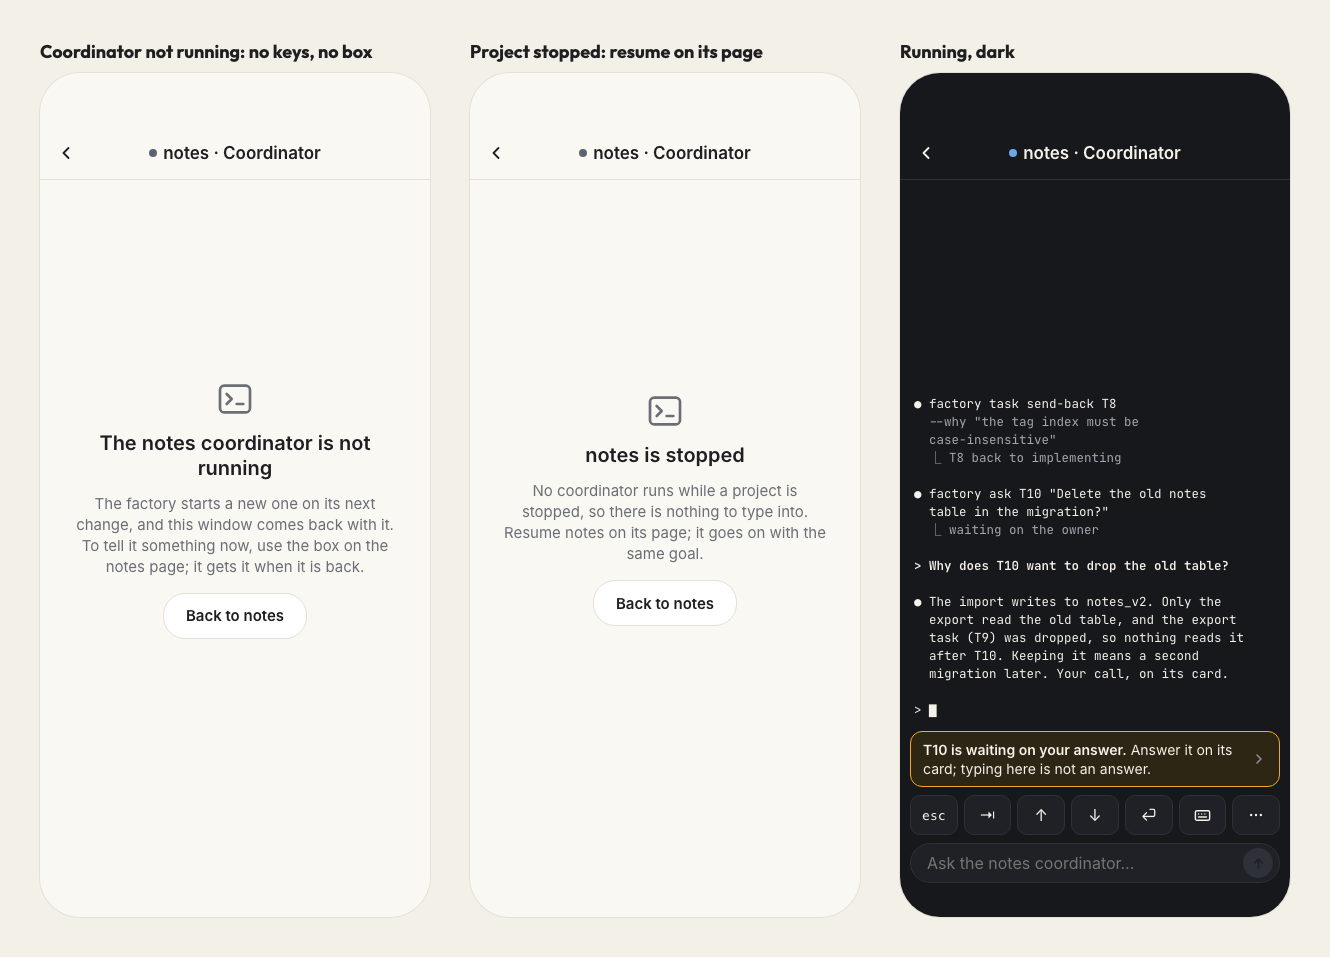
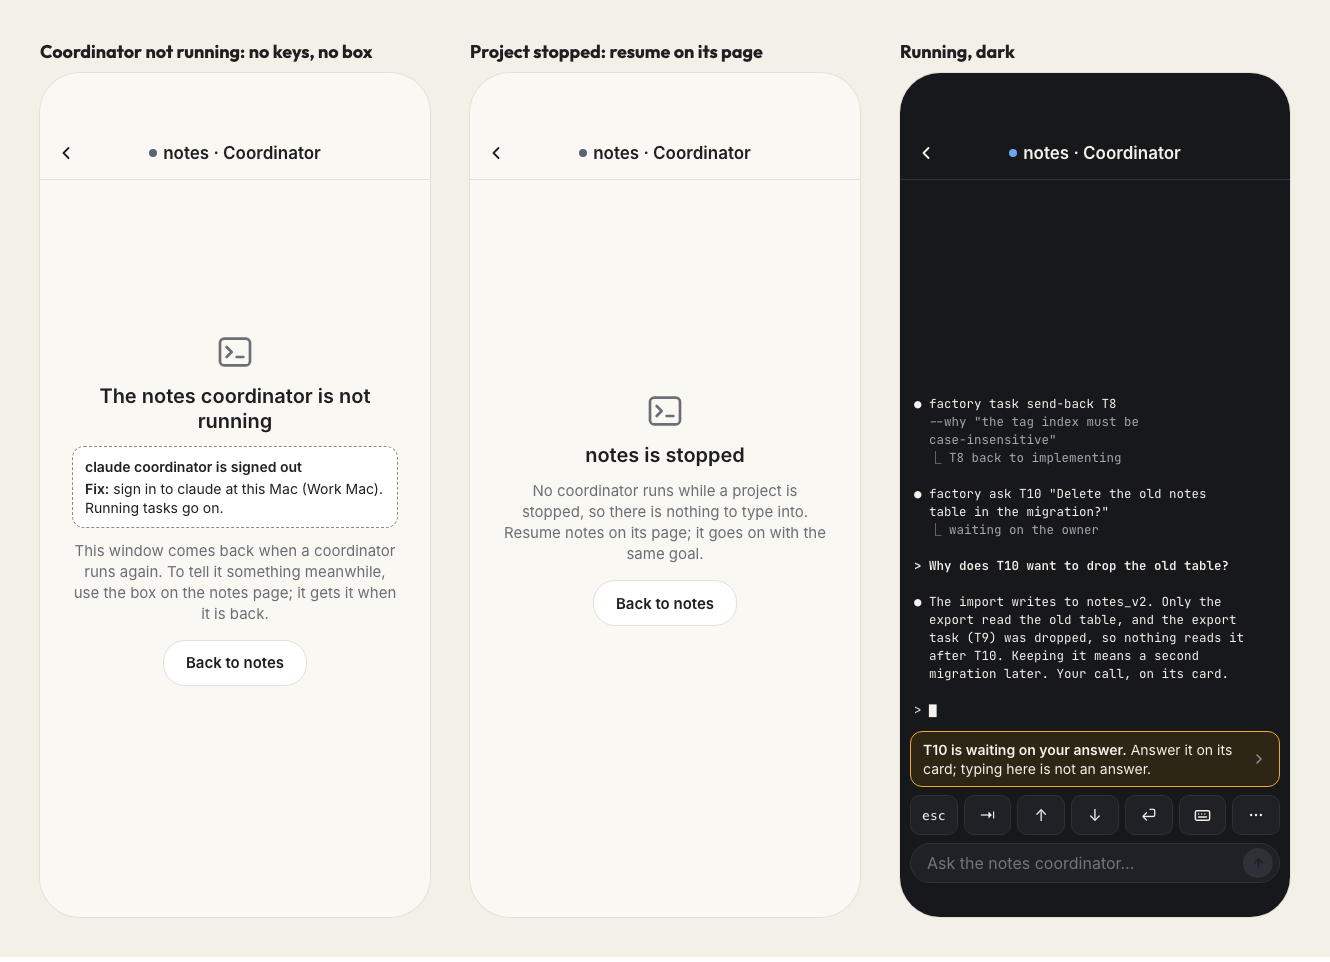
docs(design): the coordinator window's not-running state shows the alert and its fix, and its strings in the wording table

Changed region(s): [[0.0617, 0.343, 0.3083, 0.6549], [0.1233, 0.6861, 0.2158, 0.7173]]

diff --git a/docs/dev/design/canvas/FactoryWindow.dc.html b/docs/dev/design/canvas/FactoryWindow.dc.html
@@ -59,6 +59,12 @@ button{cursor:pointer}
     <main aria-label="{{ s.offTitle }}" style="flex-grow: 1; min-height: 0; display: flex; flex-direction: column; align-items: center; justify-content: center; gap: 12px; padding: 0 32px 80px; text-align: center">
       <svg width="40" height="40" viewBox="0 0 24 24" aria-hidden="true" fill="none" stroke="{{c.ink2}}" stroke-width="1.6" stroke-linecap="round" stroke-linejoin="round"><rect x="3" y="4" width="18" height="16" rx="2.5"></rect><path d="M7 9l3 3-3 3M13 15h4"></path></svg>
       <h2 style="margin: 0; font-size: 20px; line-height: 25px; font-weight: 600">{{ s.offTitle }}</h2>
+      <sc-if value="{{ s.alert }}" hint-placeholder-val="{{ true }}">
+        <div role="status" style="align-self: stretch; padding: 10px 12px; border-radius: 12px; background: {{c.surface}}; border: 1px dashed {{c.dash}}; display: flex; flex-direction: column; gap: 3px; text-align: left; font-size: 14px; line-height: 19px">
+          <span style="font-weight: 600">claude coordinator is signed out</span>
+          <span><span style="font-weight: 600">Fix:</span> sign in to claude at this Mac (Work Mac). Running tasks go on.</span>
+        </div>
+      </sc-if>
       <p style="margin: 0; font-size: 15px; line-height: 21px; color: {{c.ink2}}">{{ s.offBody }}</p>
       <a href="FactoryProject.dc.html" style="margin-top: 4px; min-height: 44px; padding: 0 22px; border-radius: 22px; border: 1px solid {{c.line}}; background: {{c.surface}}; color: {{c.ink}}; font-size: 15px; font-weight: 600; display: flex; align-items: center">Back to notes</a>
     </main>
@@ -68,8 +74,8 @@ button{cursor:pointer}
 <script type="text/x-dc" data-dc-script data-props='{"dark": {"editor": "boolean", "default": false}, "state": {"editor": "enum", "options": ["running", "coordoff", "stopped"], "default": "running"}, "$preview": {"width": 390, "height": 844}}'>
 class Component extends DCLogic {
   renderVals() {
-    const light = {"bg": "#FAF8F3", "surface": "#FFFFFF", "ink": "#1F1F22", "ink2": "#6B6E75", "line": "#E4E0D7", "blue": "#1F5F9E", "green": "#1D6B46", "idle": "#5C6370", "blocked": "#D99417", "askBg": "#FDF1DC", "chevron": "#8E929A"};
-    const dark = {"bg": "#16181C", "surface": "#1F2126", "ink": "#F5F2EA", "ink2": "#A3A7AF", "line": "#2E3138", "blue": "#6AA8EB", "green": "#5CC792", "idle": "#9AA1AD", "blocked": "#F0A92A", "askBg": "#2E2615", "chevron": "#8E929A"};
+    const light = {"bg": "#FAF8F3", "surface": "#FFFFFF", "ink": "#1F1F22", "ink2": "#6B6E75", "line": "#E4E0D7", "blue": "#1F5F9E", "green": "#1D6B46", "idle": "#5C6370", "blocked": "#D99417", "askBg": "#FDF1DC", "chevron": "#8E929A", "dash": "#8E8A80"};
+    const dark = {"bg": "#16181C", "surface": "#1F2126", "ink": "#F5F2EA", "ink2": "#A3A7AF", "line": "#2E3138", "blue": "#6AA8EB", "green": "#5CC792", "idle": "#9AA1AD", "blocked": "#F0A92A", "askBg": "#2E2615", "chevron": "#8E929A", "dash": "#6B707A"};
     const d = !!this.props.dark;
     const c = d ? dark : light;
     const st = this.props.state ?? 'running';
@@ -97,13 +103,13 @@ class Component extends DCLogic {
     const lines = raw.map((l) => ({ t: l[0] === "" ? " " : l[0], color: col[l[1]], weight: l[2] }));
     const off = st !== 'running';
     const s = {
-      live: !off, off,
+      live: !off, off, alert: st === 'coordoff',
       dot: off ? c.idle : c.blue,
       titleAria: off ? "notes coordinator, not running" : "notes coordinator, running",
       offTitle: st === 'stopped' ? "notes is stopped" : "The notes coordinator is not running",
       offBody: st === 'stopped'
         ? "No coordinator runs while a project is stopped, so there is nothing to type into. Resume notes on its page; it goes on with the same goal."
-        : "The factory starts a new one on its next change, and this window comes back with it. To tell it something now, use the box on the notes page; it gets it when it is back."
+        : "This window comes back when a coordinator runs again. To tell it something meanwhile, use the box on the notes page; it gets it when it is back."
     };
     return { c, s, lines };
   }

diff --git a/docs/dev/design/canvas/slice14-wording.md b/docs/dev/design/canvas/slice14-wording.md
@@ -298,7 +298,8 @@ strings; a test's expected string is the **Text** column
 
 Strings the iPhone and iPad app shows that `/factory` does not have. The
 boards are the Part 3 `Factory…` boards (`FactoryHead`, `FactoryProject`,
-`FactoryNewProject`, `FactoryModels`, `FactoryWindow`, `FactoryStates`).
+`FactoryNewProject`, `FactoryModels`, `FactoryWindow`, `FactoryWindowStates`,
+`FactoryStates`).
 Every other string on those boards is a string of the tables above. The app
 uses the web's words with the app's casing for screen titles and section
 labels ("Settings", "Tasks", "Asks for you"); state and stage words stay
@@ -324,11 +325,17 @@ lowercase.
 | `app.tell.gone` | status | This project is gone. | on Agents, after the project page closes (6.2) |
 | `app.pair.stop` | refusal | Not stopped: Work Mac no longer knows this phone. Pair this phone again in Settings ▸ Work Mac, then press Stop again. | a project action without a paired-device identity; the computer's own name |
 | `app.pair.say` | refusal | Not sent: Work Mac no longer knows this phone. Pair this phone again in Settings ▸ Work Mac, then send again. | the text box without a paired-device identity |
-| `app.coord.btn` | button | Coordinator | opens the read-only window; shown only while a coordinator runs |
+| `app.coord.btn` | button | Coordinator | opens the coordinator's live window (D10); shown only while a coordinator runs |
 | `app.coord.off` | heading | The coordinator is not running: claude coordinator is signed out | the alert's cause as the daemon writes it; without an alert the heading ends at "not running" and no fix follows |
 | `app.coord.fix` | sentence | Fix: sign in to claude at this Mac (Work Mac). Running tasks go on. | the alert's fix |
-| `app.win.note` | note | View only. To tell the coordinator something, use the box on the notes page. An ask is answered on its card. | the coordinator's window |
-| `app.win.updated` | status | Updated 2 s ago | the window's footer |
+| `app.win.title` | heading | notes · Coordinator | the coordinator's window header; no model or effort |
+| `app.win.ph` | placeholder | Ask the notes coordinator… | the window's prompt box; screen-reader label "Message to the notes coordinator" |
+| `app.win.ask` | link | T10 is waiting on your answer. Answer it on its card; typing here is not an answer. | above the key bar while the project has an open ask; opens the project at the card |
+| `app.win.off` | heading | The notes coordinator is not running | in place of the terminal, key bar and box when the coordinator goes while the window is open; the alert's cause and `app.coord.fix` follow when an alert is open |
+| `app.win.off.body` | sentence | This window comes back when a coordinator runs again. To tell it something meanwhile, use the box on the notes page; it gets it when it is back. | under `app.win.off` |
+| `app.win.stopped` | heading | notes is stopped | in place of the terminal, key bar and box while the project is stopped |
+| `app.win.stopped.body` | sentence | No coordinator runs while a project is stopped, so there is nothing to type into. Resume notes on its page; it goes on with the same goal. | under `app.win.stopped` |
+| `app.win.back` | button | Back to notes | under either |
 | `app.task.last` | heading | Last decision | the task view: the last coordinator or owner decision and its why |
 | `app.run` | row text | worker · codex · 31 min | one run line under a task: role, CLI, time since it started |
 | `app.np.folders` | label | folders sheepdog knows on Work Mac | the folder list in New project |

diff --git a/docs/dev/design/canvas/README.md b/docs/dev/design/canvas/README.md
@@ -66,7 +66,8 @@ is re-exported after every change.
   `FactoryNewProjectDark`, `FactoryIPadDark`; after review 2 `FactoryAsk`
   and `FactoryStatesDark`. On 2026-11-25 `FactoryWindow` was redrawn
   from a read-only snapshot to the live window (D10), `FactoryWindowStates`
-  was added, and the unused `gone` state left `FactoryProject`. Their PNGs
+  was added, the unused `gone` state left `FactoryProject`, and the window's
+  strings in [slice14-wording.md](slice14-wording.md) were replaced. Their PNGs
   were rendered from
   the board sources in headless Chrome with the canvas runtime, not
   exported from the canvas.
